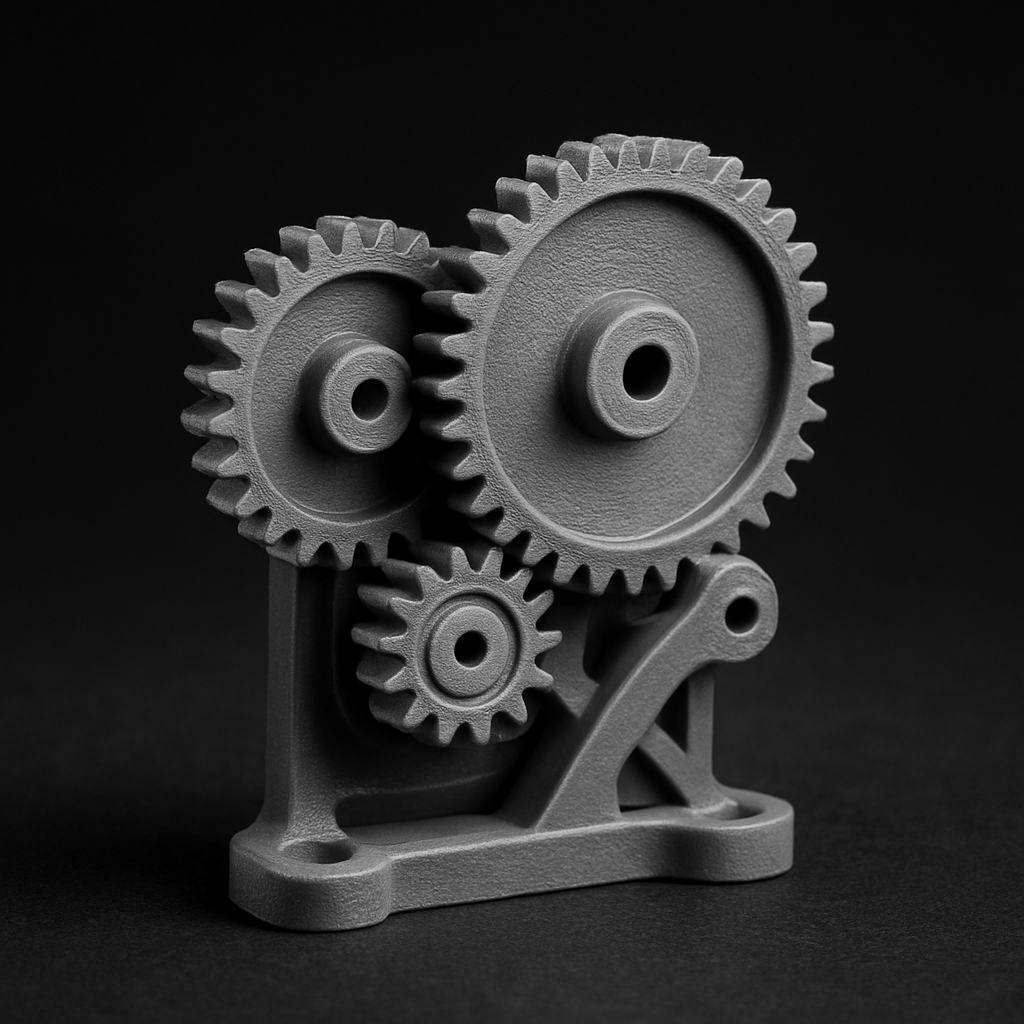
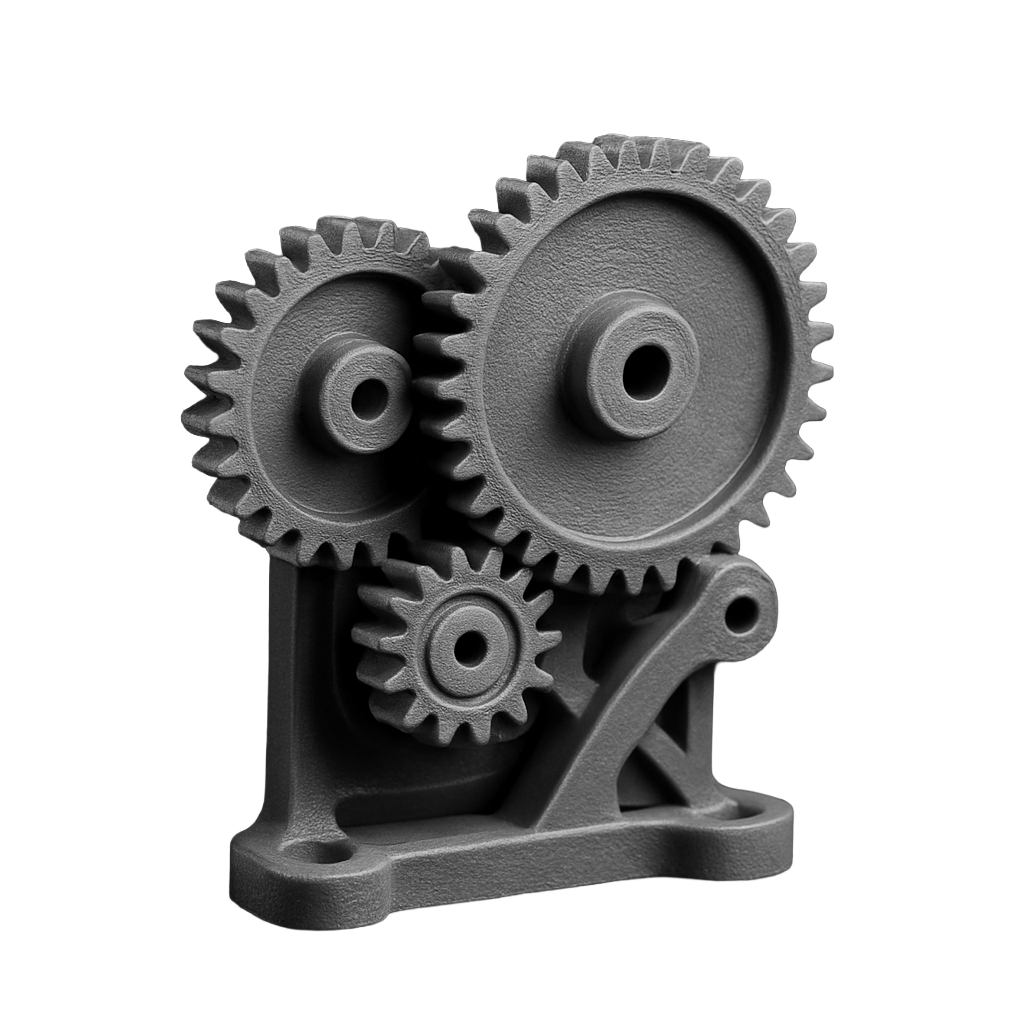
draggable widget

diff --git a/components/global-design-widget.tsx b/components/global-design-widget.tsx
@@ -1,11 +1,177 @@
 "use client"
 
+import { useEffect, useRef, useState } from "react"
 import { DesignControls } from "@/components/design-controls"
+import { GripHorizontal, Minus, Palette } from "lucide-react"
+import { cn } from "@/lib/utils"
+
+const STORAGE_KEY = "global-widget-state"
+
+type WidgetPos = { x: number; y: number }
 
 export function GlobalDesignWidget() {
+  const widgetRef = useRef<HTMLDivElement>(null)
+  const [mounted, setMounted] = useState(false)
+  
+  const [isMinimized, setIsMinimized] = useState(false)
+  const [pos, setPos] = useState<WidgetPos | null>(null)
+  const [isDragging, setIsDragging] = useState(false)
+
+  const dragStartMouse = useRef({ x: 0, y: 0 })
+  const dragStartPos = useRef({ x: 0, y: 0 })
+  const clickStart = useRef({ x: 0, y: 0, time: 0 })
+
+  // Hydrate from localStorage
+  useEffect(() => {
+    setMounted(true)
+    try {
+      const stored = window.localStorage.getItem(STORAGE_KEY)
+      if (stored) {
+        const state = JSON.parse(stored)
+        if (state.isMinimized !== undefined) setIsMinimized(state.isMinimized)
+        if (state.pos) setPos(state.pos)
+      }
+    } catch (e) {
+      console.error("Failed to load widget state", e)
+    }
+  }, [])
+
+  // Save to localStorage
+  useEffect(() => {
+    if (mounted) {
+      window.localStorage.setItem(STORAGE_KEY, JSON.stringify({ isMinimized, pos }))
+    }
+  }, [mounted, isMinimized, pos])
+
+  // Clamp position to window bounds on resize
+  useEffect(() => {
+    if (!pos || !widgetRef.current) return
+    const clampPos = () => {
+      const rect = widgetRef.current!.getBoundingClientRect()
+      // Use max(0) for dimensions in case it's hidden or very small
+      const maxX = Math.max(0, window.innerWidth - rect.width)
+      const maxY = Math.max(0, window.innerHeight - rect.height)
+      
+      const newX = Math.max(0, Math.min(pos.x, maxX))
+      const newY = Math.max(0, Math.min(pos.y, maxY))
+      
+      if (newX !== pos.x || newY !== pos.y) {
+        setPos({ x: newX, y: newY })
+      }
+    }
+    
+    window.addEventListener('resize', clampPos)
+    // We intentionally don't call it immediately on mount because the widget 
+    // might still be rendering its full width. Rely on the user dragging it.
+    return () => window.removeEventListener('resize', clampPos)
+  }, [pos])
+
+
+  const handlePointerDown = (e: React.PointerEvent<HTMLDivElement>) => {
+    const target = e.target as HTMLElement
+    // Only allow drag from the handle or the pill itself
+    if (!target.closest(".drag-handle") && !isMinimized) return
+
+    e.preventDefault() // Prevent text selection
+    setIsDragging(true)
+    
+    // If pos is null (default centered), calculate its current absolute pos
+    let currentX = pos?.x
+    let currentY = pos?.y
+    if (currentX === undefined || currentY === undefined) {
+      const rect = widgetRef.current!.getBoundingClientRect()
+      currentX = rect.left
+      currentY = rect.top
+      setPos({ x: currentX, y: currentY })
+    }
+
+    dragStartMouse.current = { x: e.clientX, y: e.clientY }
+    dragStartPos.current = { x: currentX, y: currentY }
+    clickStart.current = { x: e.clientX, y: e.clientY, time: Date.now() }
+    
+    target.setPointerCapture(e.pointerId)
+  }
+
+  const handlePointerMove = (e: React.PointerEvent<HTMLDivElement>) => {
+    if (!isDragging || !widgetRef.current) return
+    
+    const dx = e.clientX - dragStartMouse.current.x
+    const dy = e.clientY - dragStartMouse.current.y
+    
+    let newX = dragStartPos.current.x + dx
+    let newY = dragStartPos.current.y + dy
+    
+    // Bounds checking during drag
+    const rect = widgetRef.current.getBoundingClientRect()
+    const maxX = window.innerWidth - rect.width
+    const maxY = window.innerHeight - rect.height
+    
+    newX = Math.max(0, Math.min(newX, maxX))
+    newY = Math.max(0, Math.min(newY, maxY))
+    
+    setPos({ x: newX, y: newY })
+  }
+
+  const handlePointerUp = (e: React.PointerEvent<HTMLDivElement>) => {
+    if (!isDragging) return
+    setIsDragging(false)
+    const target = e.target as HTMLElement
+    if (target.hasPointerCapture(e.pointerId)) {
+      target.releasePointerCapture(e.pointerId)
+    }
+
+    // Detect click vs drag on the minimized pill
+    const dx = Math.abs(e.clientX - clickStart.current.x)
+    const dy = Math.abs(e.clientY - clickStart.current.y)
+    const dt = Date.now() - clickStart.current.time
+    if (isMinimized && dx < 5 && dy < 5 && dt < 300) {
+      setIsMinimized(false)
+    }
+  }
+
+  if (!mounted) return null
+
   return (
-    <div className="fixed bottom-6 left-1/2 -translate-x-1/2 z-[100] shadow-2xl rounded-xl border border-border/20 bg-background/80 backdrop-blur-md p-2 max-w-[90vw] overflow-x-auto">
-      <DesignControls />
+    <div
+      ref={widgetRef}
+      onPointerDown={handlePointerDown}
+      onPointerMove={handlePointerMove}
+      onPointerUp={handlePointerUp}
+      onPointerCancel={handlePointerUp}
+      style={pos ? { left: pos.x, top: pos.y } : undefined}
+      className={cn(
+        "fixed z-[100] shadow-2xl transition-all duration-200 ease-out",
+        !pos && "bottom-6 left-1/2 -translate-x-1/2",
+        isDragging && "transition-none select-none",
+        isMinimized 
+          ? "rounded-full bg-primary text-primary-foreground p-3.5 cursor-grab active:cursor-grabbing hover:bg-primary/90 hover:scale-105 transition-transform"
+          : "rounded-xl border border-border/20 bg-background/80 backdrop-blur-md p-2 flex items-center gap-3"
+      )}
+    >
+      {isMinimized ? (
+        <Palette className="size-6 pointer-events-none text-white" />
+      ) : (
+        <>
+          <div className="flex flex-col gap-1 items-center border-r border-border/50 pr-2">
+            <button 
+              className="drag-handle p-1.5 rounded hover:bg-white/10 cursor-grab active:cursor-grabbing text-muted-foreground hover:text-foreground transition-colors"
+              title="Drag to move widget"
+            >
+              <GripHorizontal className="size-4 pointer-events-none" />
+            </button>
+            <button 
+              onClick={() => setIsMinimized(true)}
+              className="p-1.5 rounded hover:bg-white/10 text-muted-foreground hover:text-foreground transition-colors"
+              title="Minimize widget"
+            >
+              <Minus className="size-4" />
+            </button>
+          </div>
+          <div className="overflow-x-auto max-w-[85vw]">
+            <DesignControls />
+          </div>
+        </>
+      )}
     </div>
   )
 }